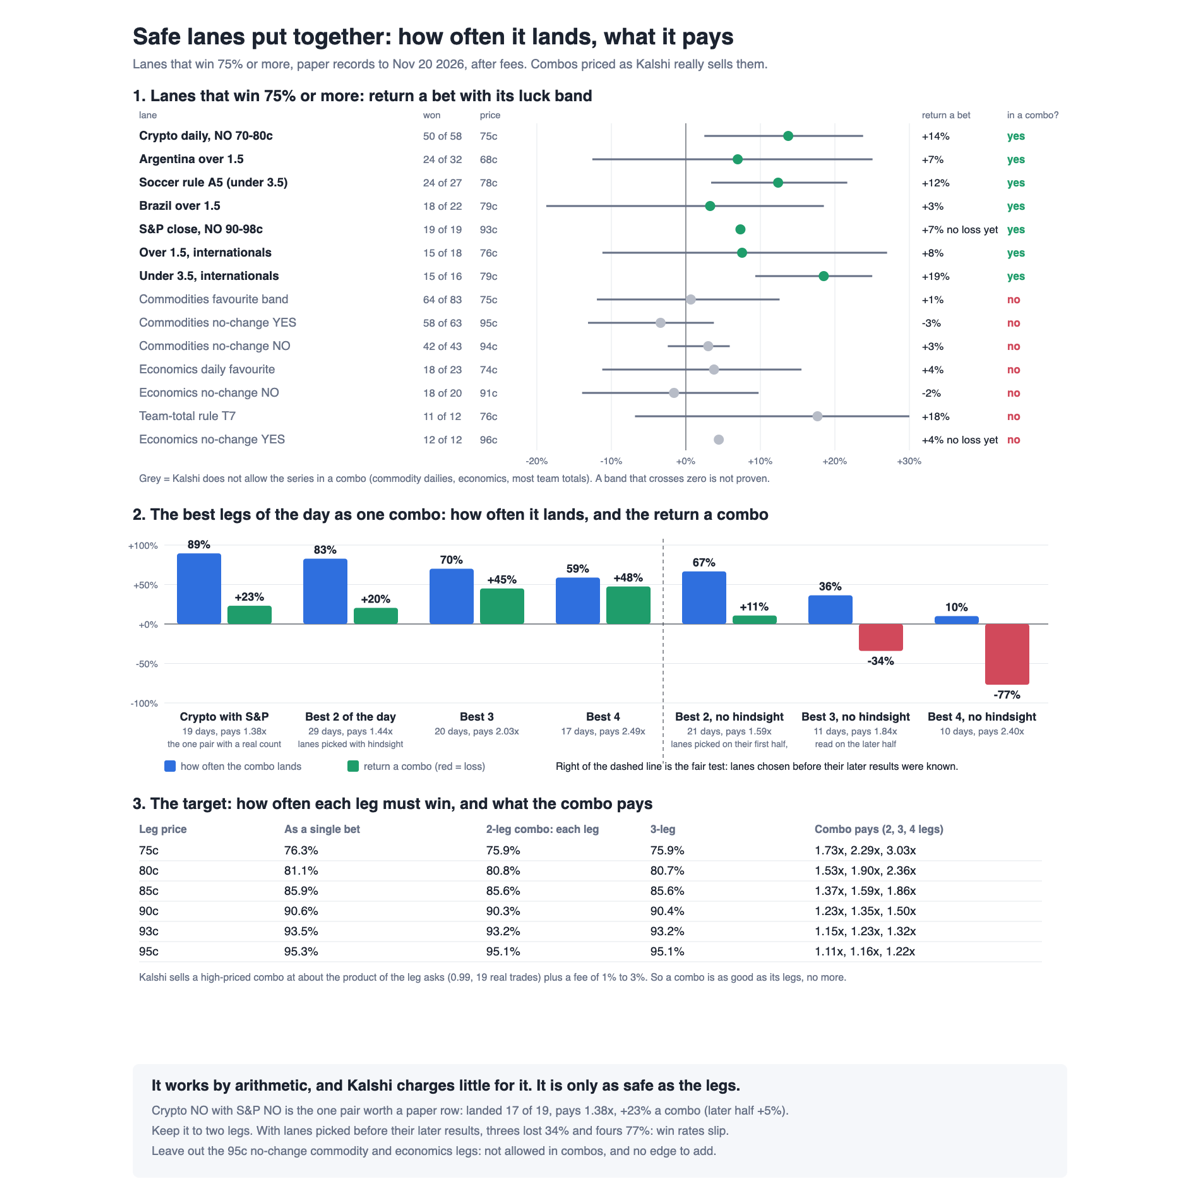
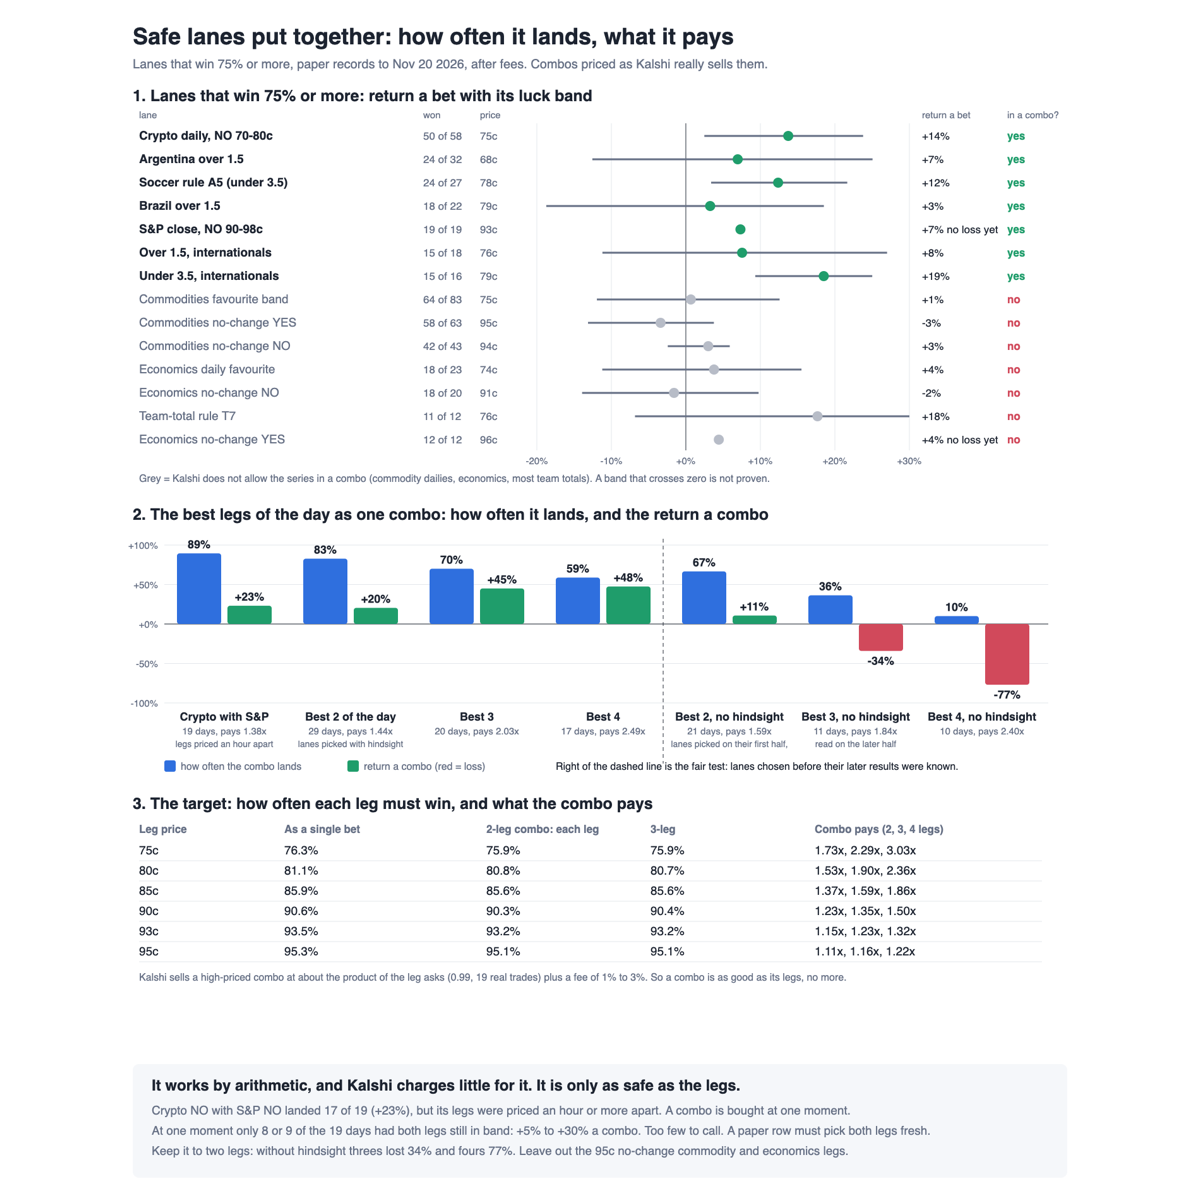
Docs: high-hit combos, timing check (legs were priced an hour apart; build spec now picks both at one minute)

Changed region(s): [[0.1233, 0.925, 0.7708, 0.9867], [0.1542, 0.6167, 0.2158, 0.6475]]

diff --git a/docs/combos_high_hit_2026-11-20.md b/docs/combos_high_hit_2026-11-20.md
@@ -8,7 +8,8 @@ Olu's question was not "is there an edge in combos". It was: take the lanes that
 
 | Combo | Days | Lands | Pays | Return a combo | Note |
 |---|---|---|---|---|---|
-| Crypto NO with S&P NO | 19 | 89% | 1.38x | +23% | Later half +5%. The one pair with a real count. |
+| Crypto NO with S&P NO, each leg at its own entry time | 19 | 89% | 1.38x | +23% | Not buyable as scored: the legs were priced an hour or more apart. |
+| The same pair, both legs at one moment | 8 or 9 | 78% to 100% | 1.30x to 1.36x | +5% to +30% | See "Timing". Too few days to call. |
 | Best 2 legs of the day | 29 | 83% | 1.44x | +20% | Both halves above zero. |
 | Best 3 legs of the day | 20 | 70% | 2.03x | +45% | Later half is 7 days. |
 | Best 4 legs of the day | 17 | 59% | 2.49x | +48% | Lost 4 in a row once. |
@@ -19,7 +20,7 @@ Olu's question was not "is there an edge in combos". It was: take the lanes that
 **Answer.**
 - **It works by arithmetic, and Kalshi charges little for it.** A high-priced combo sells at about the product of the leg asks, plus a fee of 1% to 3%.
 - **So a combo is exactly as safe as its legs.** Two legs that each beat their price make a combo that lands often and pays more. One leg that does not beat its price drags the whole combo under.
-- **One pair is worth a paper row: crypto NO with S&P NO.** Keep it to two legs.
+- **One pair is worth a paper row: crypto NO with S&P NO.** Keep it to two legs. Its 19-day figure overstates it, because the two legs were priced at different times (see "Timing"). The paper row must pick both legs at the same minute.
 - **Three and four legs are where it breaks.** When lanes are chosen before their later results are known, win rates slip and every extra leg multiplies the slip.
 
 ![picture](combos/COMBO_HIT.png)
@@ -105,7 +106,7 @@ What the 2-leg combos were made of:
 | Argentina over 1.5 with crypto NO | 2 | 1 | -12.0% |
 | S&P NO with under 3.5 internationals | 2 | 1 | -38.7% |
 
-**The one pair with a real count: crypto NO with S&P NO, every day both had a pick.**
+**The one pair with a real count: crypto NO with S&P NO, every day both had a pick.** Each leg here is at its own entry time, an hour or more apart; the "Timing" section re-scores it at one moment.
 
 | | Days | Lands | Pays | Return a combo | Break-even markup |
 |---|---|---|---|---|---|
@@ -169,16 +170,54 @@ How often each leg must win for the combo to break even, at the measured price:
 - **With hindsight the numbers flatter.** The fair test is the row to believe for anything beyond the two lanes that have held.
 - **A combo is still a bigger bet.** The first study stands: for the same swings it earns what the singles earn. What this adds is that for high-priced legs Kalshi's price does not take much of it away.
 
+## Timing (added Nov 21)
+
+Olu asked: "What about the timing". A combo is bought at one moment, and the two lanes pick at different times.
+
+**1. How the 19 days were priced.** Each leg at its own entry time, not the same minute. S&P NO was logged at 12:30 ET (13:00 on two days). Crypto NO was logged between 13:33 and 14:34 ET. The gap was 63 to 122 minutes.
+
+**2. Re-scored at one entry minute** (rules written before the prices were read; the same two contracts; S&P NO must be 90c to 98c and crypto NO 70c to 80c at that minute):
+
+| Entry rule | Days with a combo | Landed | Pays | Return a combo |
+|---|---|---|---|---|
+| As first scored: each leg at its own time | 19 of 19 | 17 (89%) | 1.38x | +23.1% |
+| Both legs at 14:00 ET, both in band | 3 of 19 | 3 | 1.29x | +28.9% |
+| First minute both in band, 13:45 to 14:15 ET | 9 of 19 | 7 (78%) | 1.36x | +4.9% |
+| At the crypto leg's entry minute, S&P re-priced and in band | 8 of 19 | 8 (100%) | 1.30x | +30.4% |
+| Both legs at 14:00 ET, any price (not a rule) | 13 of 19 | 11 (85%) | 1.39x | +15.5% |
+
+- **Most days do not survive.** By the time the crypto leg is picked, the S&P contract picked at 12:30 has usually left its band.
+- **At 14:00 ET:** 10 days had a leg out of band and 6 had no S&P quote in the 5 minutes before.
+- **At the crypto leg's entry minute:** on 7 of the 11 lost days the S&P contract had already risen to 99c or 100c, so there was nothing left to win. On 2 it had fallen to 74c and 80c. On 2 there was no quote.
+- **The 13:45 to 14:15 window's later half is -9.1% on 6 days.** The crypto-entry rule is +29.2% and +31.6% on 4 days each. Nine days cannot settle it.
+
+**3. Does waiting change the price?** Yes, a lot. On the 13 days with both quotes at 14:00 ET:
+
+| Leg | Middle change from its own entry to 14:00 ET | Range | Up, down, flat |
+|---|---|---|---|
+| Crypto NO | +2c | -14c to +13c | 8, 5, 0 |
+| S&P NO | +3c | -19c to +10c | 8, 3, 2 |
+| The pair's cost | +4.8% | | |
+
+- **Prices move more in that hour than the whole edge.** A leg that was 75c is 63c or 88c an hour later.
+- **So the +23% on 19 days is not a price anyone could have bought.** The honest same-minute record is 8 or 9 days, somewhere between +5% and +30%.
+
+**Limit.** This test keeps the contracts the lanes picked. A real same-minute rule would look at the whole S&P ladder and take whichever rung is in band at that minute, so it would find more days than 8 or 9. Testing that on past days needs the S&P ladder's minute prices for each day (a further pull, not done). A forward paper row tests it for free.
+
 ## Build spec (for the build session, if Olu wants it)
 
-- **Rule:** one paper combo a day, two legs: the day's crypto NO pick (highest-priced coin) with the S&P NO pick. No combo on a day without both.
-- **Scope:** those two lanes only. No third leg. No commodity, economics or 95c-and-up legs.
-- **Entry timing:** when the later of the two picks is logged (both are taken about 3.5 hours before their close), both legs priced at their asks in that same minute.
-- **Paper price:** 0.994 x 1.03 x the product of the two asks, plus the fee 0.07 x price x (1 - price). If a real quote is ever logged by hand, record it beside the paper price.
-- **The one change from today:** none to the lanes. This is an extra row beside them.
-- **Retire or keep:** read at 30 settled combos. Keep only if the return is above zero and the break-even markup is above the paper price on those 30. Retire at once if the two legs' own singles go under zero.
-- **Page:** each day's pair, its paper price and payout, landed or not; the same two legs as singles; lines for lands, payout, return a combo, longest losing run. Percentages only.
-- **Pre-registration text:** "Crypto NO with S&P NO, one two-leg paper combo a day when both lanes pick. Priced at 0.994 x 1.03 x the product of the leg asks in the same minute, plus the taker fee. Found on 19 days to Nov 19 2026 (17 landed, +23.1%, later half +5.1%); that record is the one the idea came from, so the row starts at zero. Read at 30 settled combos against the same legs as singles."
+Changed on Nov 21 after the timing check: both legs are picked fresh at one minute.
+
+- **Rule:** one paper combo a trading day, two legs, both chosen at the same minute: the minute the crypto NO lane logs its pick (about 13:35 ET, 3.5 hours before the crypto close).
+- **Crypto leg:** that pick (the highest-priced coin if there are several).
+- **S&P leg:** run the S&P NO lane's own rule AT THAT MINUTE, not at 12:30: the cheapest 16:00 ET rung with a NO ask of 90c to 98c, a spread of 3c or less and 25 or more contracts. At 13:35 ET the S&P close is about 2 hours 25 minutes away, inside that lane's own 2 to 3.5 hour window.
+- **No combo** on a day when either rule has no pick at that minute. Weekdays only (S&P does not trade at weekends).
+- **Scope:** those two lanes only. No third leg. No commodity, economics or 95c-and-up extra legs.
+- **Paper price:** 0.994 x 1.03 x the product of the two NO asks at that minute, plus the fee 0.07 x price x (1 - price). If a real quote is ever logged by hand, record it beside the paper price.
+- **The one change from today:** none to either lane. This is an extra row beside them. The S&P leg in the combo can be a different rung from the lane's own 12:30 pick.
+- **Retire or keep:** read at 30 settled combos. Keep only if the return is above zero and the break-even markup is above the paper price on those 30. Retire at once if either lane's own singles go under zero.
+- **Page:** each day's pair with the minute it was priced, both asks, the paper price and payout, landed or not; the same two legs as singles; lines for lands, payout, return a combo, longest losing run, and days with no combo. Percentages only.
+- **Pre-registration text:** "Crypto NO with S&P NO, one two-leg paper combo a trading day. Both legs are chosen at the minute the crypto NO lane logs its pick: the crypto pick, and the cheapest S&P 16:00 ET rung with a NO ask of 90c to 98c, a spread of 3c or less and 25 or more contracts at that minute. Priced at 0.994 x 1.03 x the product of the two NO asks, plus the taker fee. The idea came from 19 days to Nov 19 2026 on which the two legs were priced at different times (17 landed, +23.1%); at one moment only 8 or 9 of those days could be formed (+5% to +30%). None of that counts: the row starts at zero. Read at 30 settled combos against the same legs as singles."
 
 ## The plan as written before the read
 
@@ -195,5 +234,6 @@ Changes from the plan:
 - Crypto with S&P is shown at the measured link (1.03) instead of unlinked, because the tape had such combos after all. The unlinked figures are given beside it.
 - "Current" is judged by the date a lane's last bet settled. That lets in the mentions lane, which has taken no new picks since Oct 30.
 - Price requests used for step 2a: 432 more, 1,187 in all against the 2,000 approved. No new list requests.
+- The timing check (Nov 21) was planned separately before its prices were read (PREREGISTERED_timing.md) and used 19 more price requests.
 
-Files: `~/edge-research/combo_hit_2026-11-20/` (PREREGISTERED.md, scan.py, hit.py, pics.py, results.md) and `~/edge-research/combo_2026-11-20/` (tape_pull2.py, tape_score2.py, tape_results2.md).
+Files: `~/edge-research/combo_hit_2026-11-20/` (PREREGISTERED.md, PREREGISTERED_timing.md, scan.py, hit.py, timing_pull.py, timing_score.py, pics.py, results.md, timing_results.md) and `~/edge-research/combo_2026-11-20/` (tape_pull2.py, tape_score2.py, tape_results2.md).
